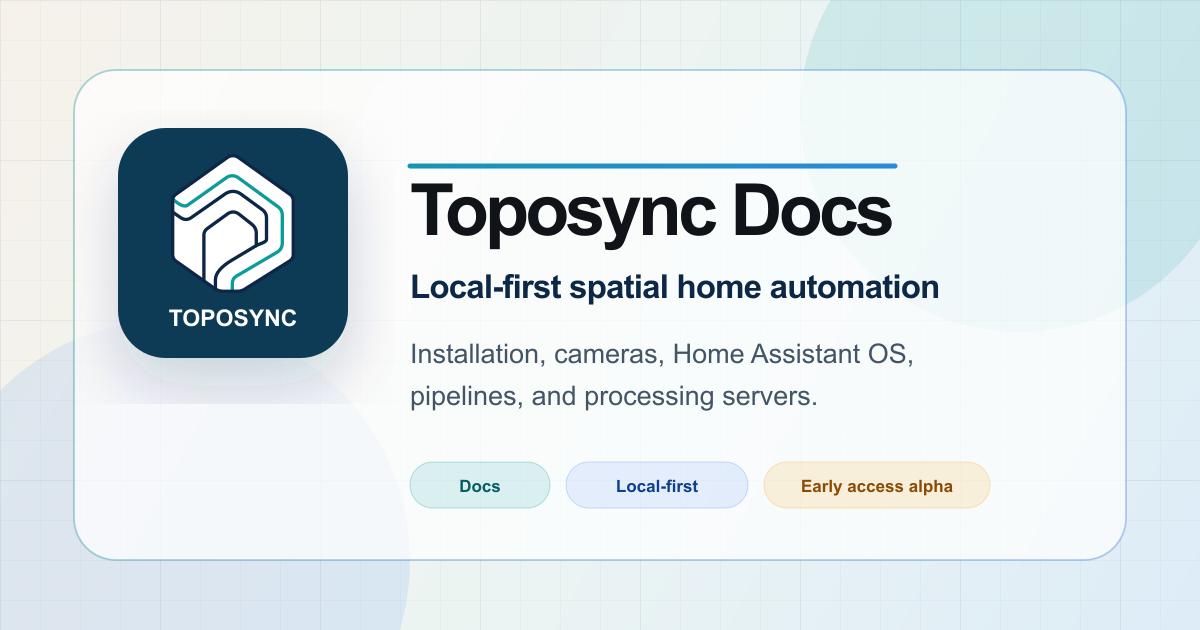
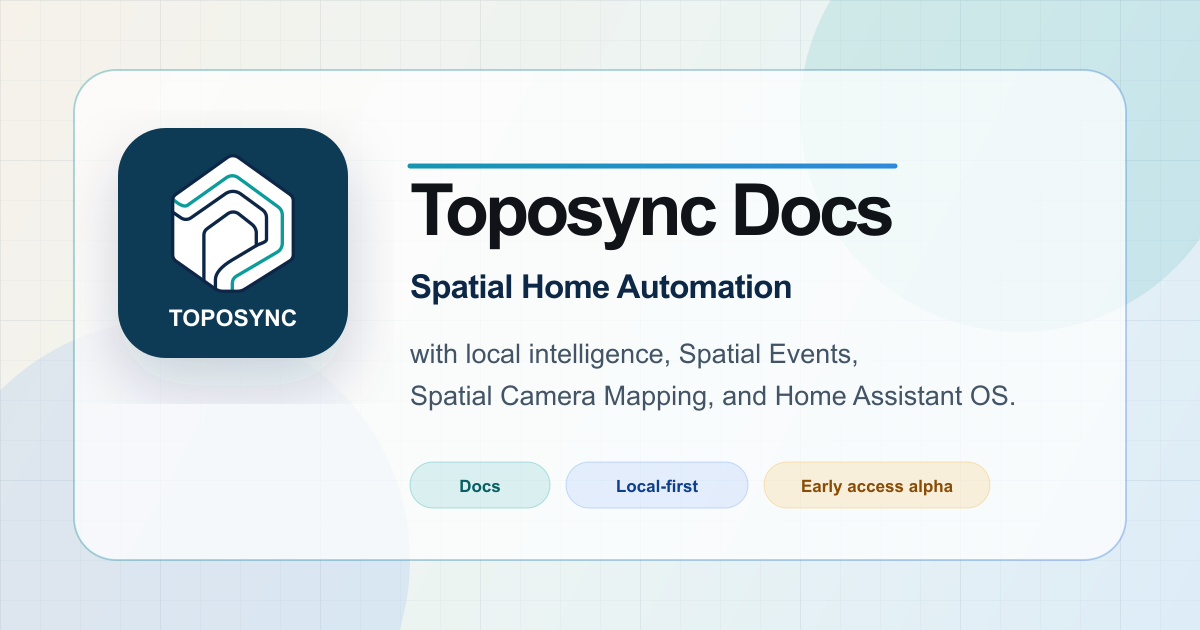
docs: introduce spatial product vocabulary

Changed region(s): [[0.3392, 0.5429, 0.8325, 0.6635], [0.3392, 0.4222, 0.8017, 0.4825]]

diff --git a/docs-site/src/pages/index.tsx b/docs-site/src/pages/index.tsx
@@ -15,7 +15,7 @@ export default function Home(): JSX.Element {
       description={translate({
         id: 'homepage.description',
         message:
-          'Documentation for Toposync, a local-first spatial home automation platform for cameras, Home Assistant OS, pipelines, and processing servers.',
+          'Documentation for Toposync, an open source project for local-first Spatial Home Automation with local intelligence, cameras, spatial events, Home Assistant OS, pipelines, and processing servers.',
       })}>
       <main className={styles.home}>
         <section className={styles.intro}>
@@ -29,7 +29,7 @@ export default function Home(): JSX.Element {
             <p className={styles.introText}>
               <Translate id="homepage.introText">
                 Practical guides for installing Toposync, creating your first spatial composition,
-                connecting cameras, and understanding the current local-first architecture.
+                connecting cameras, and understanding Spatial Home Automation with local intelligence in the current architecture.
               </Translate>
             </p>
             <div className={styles.actions}>
@@ -121,7 +121,7 @@ export default function Home(): JSX.Element {
                   <Translate id="homepage.task.cameras.title">Cameras</Translate>
                 </span>
                 <small>
-                  <Translate id="homepage.task.cameras.description">RTSP, ONVIF, mapping, and image processing</Translate>
+                  <Translate id="homepage.task.cameras.description">RTSP, ONVIF, Spatial Camera Mapping, and image processing</Translate>
                 </small>
               </Link>
               <Link className={styles.taskLink} to="/docs/installation/processing-server-linux-macos">
@@ -153,7 +153,7 @@ export default function Home(): JSX.Element {
                   <Translate id="homepage.task.developers.title">Developers</Translate>
                 </span>
                 <small>
-                  <Translate id="homepage.task.developers.description">Architecture, extension authoring, plugin API, and pipelines</Translate>
+                  <Translate id="homepage.task.developers.description">Architecture, Spatial Events, extension authoring, plugin API, and pipelines</Translate>
                 </small>
               </Link>
               <Link className={styles.taskLink} to="/docs/troubleshooting/">

diff --git a/docs-site/docusaurus.config.ts b/docs-site/docusaurus.config.ts
@@ -8,11 +8,11 @@ const siteUrl = 'https://docs.toposync.com';
 const productUrl = 'https://toposync.com';
 const socialImageUrl = `${siteUrl}/img/social-card.png`;
 const seoDescription =
-  'Documentation for Toposync, a local-first spatial home automation platform for cameras, Home Assistant, pipelines, and processing servers.';
+  'Documentation for Toposync, an open source project for local-first Spatial Home Automation with local intelligence, Spatial Camera Mapping, Spatial Events, Home Assistant, pipelines, and processing servers.';
 
 const config: Config = {
   title: 'Toposync',
-  tagline: 'Local-first home automation, cameras, and spatial context.',
+  tagline: 'Spatial Home Automation with local intelligence.',
   favicon: 'img/favicon.png',
 
   // Future flags, see https://docusaurus.io/docs/api/docusaurus-config#future
@@ -78,7 +78,7 @@ const config: Config = {
       {
         name: 'keywords',
         content:
-          'Toposync, home automation, Home Assistant, cameras, RTSP, ONVIF, PTZ, local-first, spatial automation, processing server, computer vision',
+          'Toposync, Spatial Home Automation, Spatial Camera Mapping, Spatial Events, Spatial Intelligence, Spatial Awareness, home automation, Home Assistant, cameras, RTSP, ONVIF, PTZ, local-first, processing server, computer vision',
       },
       {name: 'author', content: 'Toposync'},
       {name: 'application-name', content: 'Toposync'},

diff --git a/README.pt-BR.md b/README.pt-BR.md
@@ -6,7 +6,7 @@
 
 [English](README.md)
 
-**Toposync** é uma **plataforma local-first em estágio alpha** para automação residencial espacial, inteligência com câmeras e visualização 2D/3D da casa, opcionalmente integrada ao Home Assistant.
+**Toposync** é uma **plataforma open source, local-first, em estágio alpha** para **Spatial Home Automation com inteligência local**: automação residencial com contexto espacial, inteligência com câmeras, mapeamento espacial de câmeras, eventos espaciais e visualização 2D/3D da casa em ambientes residenciais privados, opcionalmente integrada ao Home Assistant.
 
 O objetivo é transformar uma casa inteligente em um ambiente visual e interpretável: câmeras, áreas, dispositivos, automações, notificações e eventos podem existir dentro de um mapa 2D/3D da casa.
 
@@ -18,6 +18,13 @@ O Toposync não pretende ser apenas mais um dashboard de câmeras, nem apenas ma
 - qual área da casa foi afetada?
 - qual automação deveria reagir?
 - qual histórico vale a pena guardar?
+
+A categoria que o Toposync está explorando é **Spatial Home Automation**. Na prática:
+
+- **Spatial Camera Mapping** conecta imagens de câmeras a posições, áreas e visões reais dentro do modelo da casa.
+- **Spatial Events** são eventos de câmera ou automação com posição, área, câmera, estado do objeto e contexto.
+- **Spatial Intelligence** é a camada local mais ampla de interpretação que pode combinar câmeras, áreas, dispositivos, pipelines e histórico.
+- **Spatial Awareness** é linguagem de recurso para comportamento sensível a áreas, como reagir de forma diferente perto de portão, piscina, garagem, calçada ou entrada.
 
 > O Toposync está atualmente em **alpha early access**. Ele já pode ser testado por early adopters, usuários avançados de automação residencial, usuários de Home Assistant, usuários de câmeras IP, RTSP/ONVIF, entusiastas de homelab e pessoas interessadas em visão computacional local.
 
@@ -47,12 +54,12 @@ Você pode ajudar:
 | Caso de uso | O que permite | Status |
 | --- | --- | --- |
 | **Visão 2D/3D da casa** | Visualizar casa, cômodos, áreas, dispositivos, câmeras e entidades em um modelo espacial. | **Pronto para teste** |
-| **Automação residencial visual** | Ver luzes, câmeras, sensores e dispositivos dentro da representação da casa, com estados visuais como luzes ativas, entidades selecionadas ou itens ativos. | **Pronto para teste** |
-| **Eventos no mapa** | Transformar detecções de câmera em eventos posicionados em áreas reais da casa. Em vez de saber só que algo foi detectado, ver onde aconteceu. | **Pronto para teste** |
-| **Rastreamento no mundo real** | Rastrear objetos, pessoas ou eventos ao longo do tempo e associar seus caminhos a áreas da casa. | **Pronto para teste** |
-| **Consciência da frente da casa** | Detectar pessoas, veículos ou entregas parados perto do portão, garagem, calçada ou entrada. | **Pronto para teste** |
+| **Spatial Home Automation** | Ver luzes, câmeras, sensores e dispositivos dentro da representação da casa, com estados visuais como luzes ativas, entidades selecionadas ou itens ativos. | **Pronto para teste** |
+| **Spatial Events** | Transformar detecções de câmera em eventos posicionados em áreas reais da casa. Em vez de saber só que algo foi detectado, ver onde aconteceu. | **Pronto para teste** |
+| **Rastreamento espacial** | Rastrear objetos, pessoas ou eventos ao longo do tempo e associar seus caminhos a áreas da casa. | **Pronto para teste** |
+| **Spatial Awareness na entrada** | Detectar pessoas, veículos ou entregas parados perto do portão, garagem, calçada ou entrada. | **Pronto para teste** |
 | **Objetos parados relevantes** | Criar regras para coisas que realmente pararam em uma área, em vez de reagir a qualquer movimento rápido. | **Pronto para teste** |
-| **Áreas sensíveis** | Adicionar uma camada extra de consciência em locais como piscinas, portões, garagens, quintais ou áreas restritas. | **Pronto para teste** |
+| **Spatial Awareness para áreas sensíveis** | Adicionar uma camada extra de consciência em locais como piscinas, portões, garagens, quintais ou áreas restritas. | **Pronto para teste** |
 | **Pets perto de áreas sensíveis** | Combinar detecção, áreas e notificações para perceber situações relevantes envolvendo pets perto de piscinas, ruas ou portões. | **Pronto para teste** |
 | **Visão espacial 360** | Projetar imagens de câmeras no modelo 2D/3D, criando uma visualização inspirada em sistemas de câmera 360 de carros. | **Experimento inicial** |
 | **Câmeras multi-marca** | Trazer câmeras RTSP/ONVIF de marcas diferentes para uma única interface local. | **Pronto para teste** |
@@ -61,7 +68,7 @@ Você pode ajudar:
 | **Câmeras comuns com inteligência local** | Usar câmeras simples como fontes de imagem e concentrar inteligência em uma plataforma local mais flexível. | **Pronto para teste** |
 | **Detecção além da câmera** | Usar modelos e pipelines mais avançados que a IA embutida de cada câmera, incluindo objetos distantes ou condições visuais específicas. | **Pronto para teste, avançado** |
 | **Pipelines locais de IA** | Combinar entrada de câmera, detecção, rastreamento, filtros, áreas, notificações e ações em fluxos customizáveis. | **Pronto para teste** |
-| **Regras por área** | A mesma detecção pode significar coisas diferentes dependendo da área. Uma pessoa na calçada pode ser normal; a mesma pessoa no quintal em outro horário pode gerar alerta. | **Pronto para teste** |
+| **Regras espaciais por área** | A mesma detecção pode significar coisas diferentes dependendo da área. Uma pessoa na calçada pode ser normal; a mesma pessoa no quintal em outro horário pode gerar alerta. | **Pronto para teste** |
 | **Notificações contextuais** | Receber notificações com localização, tipo de evento, área, imagem associada e estado do objeto. | **Pronto para teste** |
 | **Entregas e campainhas** | Detectar entregadores, pacotes ou pessoas perto da entrada, mesmo antes de alguém tocar a campainha. | **Pronto para teste** |
 | **Linhas do tempo ricas** | Guardar eventos interpretados com horário, área, objeto, imagem e contexto, facilitando encontrar ocorrências sem assistir horas de vídeo. | **Pronto para teste** |

diff --git a/README.md b/README.md
@@ -6,7 +6,7 @@
 
 [Português (Brasil)](README.pt-BR.md)
 
-**Toposync** is an **alpha-stage, local-first platform** for spatial home automation, camera intelligence, and 2D/3D home visualization, optionally integrated with Home Assistant.
+**Toposync** is an **alpha-stage, open source, local-first platform** for **Spatial Home Automation with local intelligence**: camera intelligence, spatial camera mapping, spatial events, and 2D/3D home visualization for private home environments, optionally integrated with Home Assistant.
 
 The goal is to turn a smart home into a visual and interpretable environment: cameras, areas, devices, automations, notifications, and events can exist inside a 2D/3D map of the home.
 
@@ -18,6 +18,13 @@ Toposync is not meant to be just another camera dashboard, and not just another 
 - which area of the home was affected?
 - which automation should react?
 - which history is worth keeping?
+
+The category Toposync is exploring is **Spatial Home Automation**. In practical terms:
+
+- **Spatial Camera Mapping** connects camera images to real positions, areas, and views inside the home model.
+- **Spatial Events** are camera or automation events with position, area, camera, object state, and context.
+- **Spatial Intelligence** is the broader local interpretation layer that can combine cameras, areas, devices, pipelines, and history.
+- **Spatial Awareness** is feature language for area-aware behavior, such as reacting differently near a gate, pool, driveway, sidewalk, or entrance.
 
 > Toposync is currently in **alpha early access**. It can already be tested by early adopters, advanced home automation users, Home Assistant users, IP camera users, RTSP/ONVIF users, homelab enthusiasts, and people interested in local computer vision.
 
@@ -47,12 +54,12 @@ You can help by:
 | Use case | What it enables | Status |
 | --- | --- | --- |
 | **2D/3D home view** | Visualize your home, rooms, areas, devices, cameras, and entities in a spatial model. | **Ready for testing** |
-| **Visual home automation** | See lights, cameras, sensors, and devices inside the home representation, with visual states such as active lights, selected entities, or active items. | **Ready for testing** |
-| **Events on the map** | Turn camera detections into events positioned in real areas of the home. Instead of only knowing that something was detected, see where it happened. | **Ready for testing** |
-| **Real-world tracking** | Track objects, people, or events over time and associate their paths with areas of the home. | **Ready for testing** |
-| **Front-of-house awareness** | Detect people, vehicles, or deliveries stopped near the gate, driveway, sidewalk, or entrance. | **Ready for testing** |
+| **Spatial Home Automation** | See lights, cameras, sensors, and devices inside the home representation, with visual states such as active lights, selected entities, or active items. | **Ready for testing** |
+| **Spatial Events** | Turn camera detections into events positioned in real areas of the home. Instead of only knowing that something was detected, see where it happened. | **Ready for testing** |
+| **Spatial tracking** | Track objects, people, or events over time and associate their paths with areas of the home. | **Ready for testing** |
+| **Spatial Awareness at entrances** | Detect people, vehicles, or deliveries stopped near the gate, driveway, sidewalk, or entrance. | **Ready for testing** |
 | **Relevant stopped objects** | Create rules for things that actually stopped in an area, instead of reacting to every fast movement. | **Ready for testing** |
-| **Sensitive areas** | Add an extra awareness layer around places such as pools, gates, garages, backyards, or restricted areas. | **Ready for testing** |
+| **Spatial Awareness for sensitive areas** | Add an extra awareness layer around places such as pools, gates, garages, backyards, or restricted areas. | **Ready for testing** |
 | **Pets near sensitive areas** | Combine detection, areas, and notifications to notice relevant situations involving pets near places such as pools, streets, or gates. | **Ready for testing** |
 | **Spatial 360 view** | Project camera images into the 2D/3D model, creating a visualization inspired by car 360 camera systems. | **Early experiment** |
 | **Multi-brand cameras** | Bring RTSP/ONVIF cameras from different brands into a single local interface. | **Ready for testing** |
@@ -61,7 +68,7 @@ You can help by:
 | **Common cameras with local intelligence** | Use simple cameras as image sources and concentrate intelligence in a more flexible local platform. | **Ready for testing** |
 | **Detection beyond the camera** | Use more advanced models and pipelines than the built-in AI of each camera, including distant objects or specific visual conditions. | **Ready for testing, advanced** |
 | **Local AI pipelines** | Combine camera input, detection, tracking, filters, areas, notifications, and actions in customizable flows. | **Ready for testing** |
-| **Rules by area** | The same detection can mean different things depending on the area. A person on the sidewalk may be normal; the same person in the backyard at another time may trigger an alert. | **Ready for testing** |
+| **Spatial rules by area** | The same detection can mean different things depending on the area. A person on the sidewalk may be normal; the same person in the backyard at another time may trigger an alert. | **Ready for testing** |
 | **Context-aware notifications** | Receive notifications with location, event type, area, associated image, and object state. | **Ready for testing** |
 | **Deliveries and doorbells** | Detect delivery people, packages, or people near the entrance, even before someone rings the doorbell. | **Ready for testing** |
 | **Rich timelines** | Store interpreted events with time, area, object, image, and context, making it easier to find occurrences without watching hours of video. | **Ready for testing** |
